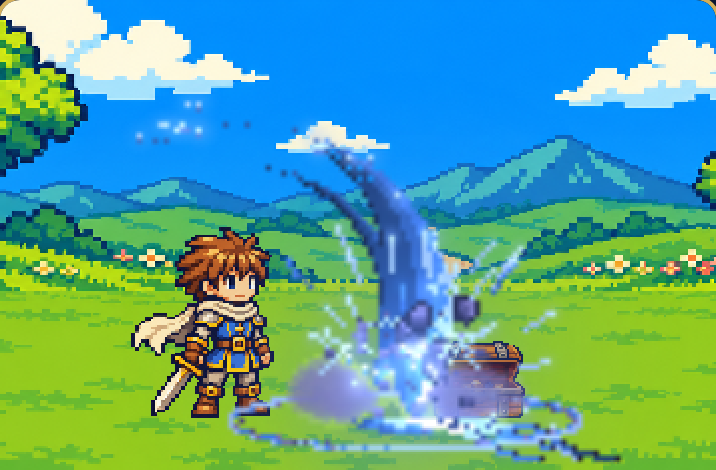
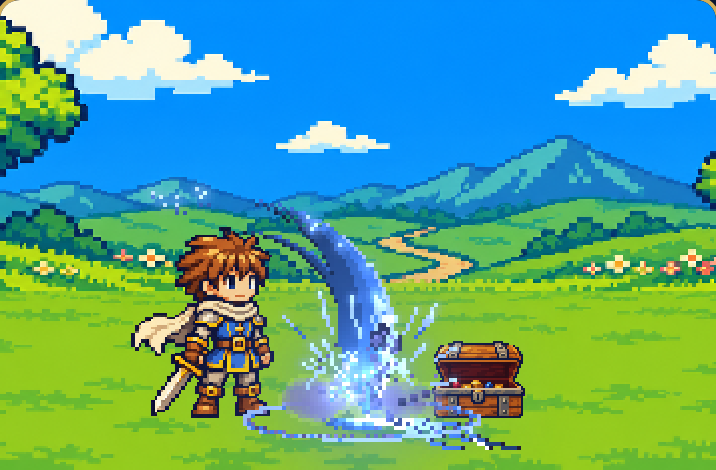
RPG: pixelfx の拡大を補間なし・整数倍に（ぼけ修正）

diff --git a/rpg/js/rpg-fx.js b/rpg/js/rpg-fx.js
@@ -80,16 +80,32 @@
         },
         done() { return fx.done(); },
         started() { return this.delay <= 0; },
-        // ctx の座標で、アンカー(ax,ay)に s 倍で描く
-        blit(ctx, ax, ay, s, alpha) {
+        // ctx の座標で、アンカー(ax,ay)に描く。cpx＝出力の1ドットが canvas の何ピクセルか（整数）、ds＝元ドットを ds×ds 個まとめて1ドットにする（整数）。
+        // 補間は使わない（くっきり）。位置も canvas ピクセルの整数に丸める
+        blit(ctx, ax, ay, cpx, alpha, ds) {
           if (this.delay > 0) return;
+          ds = ds || 1; const ow = Math.ceil(w / ds), oh = Math.ceil(h / ds);
           if (this.dirty) {
             const t0 = root.performance ? root.performance.now() : 0;
-            core.clearFrame(frame); fx.draw(frame); core.composite(frame, img.data, null, 1); g.putImageData(img, 0, 0); this.dirty = false;
+            core.clearFrame(frame); fx.draw(frame); core.composite(frame, img.data, null, 1);
+            if (ds === 1) g.putImageData(img, 0, 0);
+            else {
+              if (!this.small) { this.small = root.document.createElement('canvas'); this.small.width = ow; this.small.height = oh; this.sg = this.small.getContext('2d'); this.simg = this.sg.createImageData(ow, oh); }
+              const s = img.data, d = this.simg.data;
+              for (let y = 0; y < oh; y++) for (let x = 0; x < ow; x++) {
+                let best = -1, bi = 0;
+                for (let j = 0; j < ds; j++) for (let i = 0; i < ds; i++) { const xx = x * ds + i, yy = y * ds + j; if (xx >= w || yy >= h) continue; const q = (yy * w + xx) * 4, sc = s[q + 3] * 1024 + s[q] + s[q + 1] + s[q + 2]; if (sc > best) { best = sc; bi = q; } }
+                const o = (y * ow + x) * 4; d[o] = s[bi]; d[o + 1] = s[bi + 1]; d[o + 2] = s[bi + 2]; d[o + 3] = s[bi + 3];
+              }
+              this.sg.putImageData(this.simg, 0, 0);
+            }
+            this.dirty = false;
             if (root.performance) { this.ms += root.performance.now() - t0; this.frames++; }
           }
-          ctx.save(); ctx.globalAlpha = alpha == null ? 1 : alpha; ctx.imageSmoothingEnabled = true;
-          ctx.drawImage(cv, ax - this.ox * s, ay - this.oy * s, w * s, h * s); ctx.restore();
+          const k = ctx.getTransform().a || 1, src = ds === 1 ? cv : this.small;
+          const px = Math.round(ax * k - (this.ox / ds) * cpx), py = Math.round(ay * k - (this.oy / ds) * cpx);
+          ctx.save(); ctx.globalAlpha = alpha == null ? 1 : alpha; ctx.imageSmoothingEnabled = false;
+          ctx.drawImage(src, px / k, py / k, ow * cpx / k, oh * cpx / k); ctx.restore();
         }
       };
       return inst;

diff --git a/rpg/js/rpg-ui.js b/rpg/js/rpg-ui.js
@@ -85,8 +85,8 @@
     const b = a.battle, ed = D.ENEMIES[a.enemyId];
     return { job: b.hero.job, region: a.route.bg || D.REGIONS[a.route.region].id, outfit: M.costumeColor(RPG.save), enemyId: ed.id, boss: ed.boss, status: b.status, guard: !!(b.hero.guard && b.hero.guard.left > 0) };
   }
-  const REWARD_FXS = 0.9;   // 報酬画面：報酬の canvas は 1ドット＝CSS 3px。エフェクト1ドットを 2.7 CSS px に
-  const STRIP_FXS = 0.36;   // 帯：エフェクト1ドット＝帯の0.3ドット（小さく控えめ）。報酬画面は REWARD_FXS
+  const REWARD_FXS = 2;   // 報酬画面：エフェクト1ドット＝canvas 2px（主人公画像のドットと同程度）。整数倍・補間なし
+  const STRIP_FXS = 1, STRIP_DS = 2;   // 帯：2×2ドットを1つにまとめ、1ドット＝canvas 1px（帯の主人公のドットと同じ）。整数倍・補間なし   // 帯：エフェクト1ドット＝帯の0.3ドット（小さく控えめ）。報酬画面は REWARD_FXS
   const fxLive = [];
   // 画像が枠（CSS px）に収まらないとき、縮小率を返す（収まるなら1）。192pxボスの帯・報酬画面用
   function fitScale(im, maxW, maxH) { if (!im) return 1; return Math.min(1, maxW ? maxW / im.width : 1, maxH ? maxH / im.height : 1); }
@@ -99,7 +99,7 @@
     SP.drawHero(ctx, si.job, hx, gy, { img: 'strip', tint: heroTint, guard: o.guard || si.guard, outfit: si.outfit });
     if (si.status !== 'won') SP.drawEnemy(ctx, si.enemyId, si.boss, ex, gy, { img: 'strip', tint: o.enemyFlash ? '#fff' : null, scale: fitScale(SP.IMGS['enemy_' + si.enemyId + '_strip'], 0, 40) });
     if (o.still) { const im = SP.IMGS['fx_' + o.still.kind + '_strip']; if (im) { ctx.save(); ctx.globalAlpha = 0.9; ctx.imageSmoothingEnabled = false; const k = ctx.getTransform().a || 1, w = im.width / k, h = im.height / k, cx = o.still.hero ? hx + 7 : ex + 7; ctx.drawImage(im, cx - w / 2, gy - h - 2, w, h); ctx.restore(); } }
-    fxLive.forEach(f => { if (f.started()) f.blit(ctx, f.at === 'hero' ? hx + 7 : f.at === 'melee' ? ex - 10 : ex + 7, f.at === 'enemy' ? gy - 6 : gy, STRIP_FXS, 1); });
+    fxLive.forEach(f => { if (f.started()) f.blit(ctx, f.at === 'hero' ? hx + 7 : f.at === 'melee' ? ex - 10 : ex + 7, f.at === 'enemy' ? gy - 6 : gy, STRIP_FXS, 1, STRIP_DS); });
     if (o.slash) { SP.px(ctx, hx + 16, gy - 12, '#fff', 2); SP.px(ctx, hx + 18, gy - 10, '#ffe27a', 2); SP.px(ctx, hx + 20, gy - 8, '#fff', 2); }
     if (o.heal) { SP.px(ctx, hx + 5, gy - 18, '#5be08a', 1); SP.px(ctx, hx + 4, gy - 17, '#5be08a', 3); SP.px(ctx, hx + 5, gy - 16, '#5be08a', 1); }
   }

diff --git a/rpg/tools/ui_test_fx.py b/rpg/tools/ui_test_fx.py
@@ -30,7 +30,7 @@ with sync_playwright() as p:
         chk(engine + ':all_mods', pg.evaluate("() => Object.keys(RPGFX.FX).every(k => RPGFX.ready(k))"), pg.evaluate("() => Object.keys(RPGFX._S.failed)"))
         # 全エフェクトを描いて1フレームの描画時間を測る（オフスクリーン。帯サイズ）
         perf = pg.evaluate("""() => { const out = {}; const cv = document.createElement('canvas'); cv.width = 400; cv.height = 90; const g = cv.getContext('2d');
-          for (const k of Object.keys(RPGFX.FX)) { const f = RPGFX.spawn(k, { cap: 0.9 }); let n = 0, tot = 0, mx = 0; for (let i = 0; i < 40 && !f.done(); i++) { const t0 = performance.now(); f.update(1/60); f.update(1/60); g.clearRect(0,0,400,90); f.blit(g, 100, 80, 0.6, 1); const d = performance.now() - t0; tot += d; mx = Math.max(mx, d); n++; }
+          for (const k of Object.keys(RPGFX.FX)) { const f = RPGFX.spawn(k, { cap: 0.9 }); let n = 0, tot = 0, mx = 0; for (let i = 0; i < 40 && !f.done(); i++) { const t0 = performance.now(); f.update(1/60); f.update(1/60); g.clearRect(0,0,400,90); f.blit(g, 100, 80, 1, 1, 2); const d = performance.now() - t0; tot += d; mx = Math.max(mx, d); n++; }
             out[k] = { avg: +(tot / n).toFixed(2), max: +mx.toFixed(2), n }; } return out; }""")
         R['perf'][engine] = perf
         chk(engine + ':frame_avg_lt_10ms', max(v['avg'] for v in perf.values()) < 10, max(v['avg'] for v in perf.values()))

diff --git a/rpg/IMPLEMENTATION_DECISIONS.md b/rpg/IMPLEMENTATION_DECISIONS.md
@@ -45,8 +45,8 @@
 
 # 技の効果＝pixelfx（2026-11-18）
 - D-39 技の動くエフェクトは外部 pixelfx（https://github.com/patch-gg/pixelfx 、MIT、コミット 5294518）を `rpg/vendor/pixelfx/` に取り込み（core＋使う effect 20種。npm 不使用、gallery/fonts は持ち込まない）。描画は `rpg/js/rpg-fx.js`（classic script から動的 import。ビルドなし）。通常攻撃は従来のまま（技だけ差し替え）。戻り順：pixelfx →（読めない・失敗）静止画 fx_*（ChatGPT制作12種）→ コード描画。
-  - 帯（高さ44px）：エフェクト1ドット＝0.36論理ドット、最大0.9秒で止めて消す。hit stop・画面ゆれは切る。問題文・地図・選択肢の寸法は不変（学習画面の寸法差0）。
-  - 報酬画面（勝利時のみ）：職の大技エフェクトを宝箱の上で1回。大きめ（2.7 CSS px/ドット）、hit stop 0.09秒と画面ゆれ0.24秒を使う。「動きを減らす」設定では出さない。
+  - 帯（高さ44px）：元の2×2ドットを1つにまとめ（最も濃い画素を採用）、1ドット＝canvas 1px（帯の主人公画像のドットと同じ）、最大0.9秒で止めて消す。hit stop・画面ゆれは切る。問題文・地図・選択肢の寸法は不変（学習画面の寸法差0）。
+  - 報酬画面（勝利時のみ）：職の大技エフェクトを宝箱の上で1回。1ドット＝canvas 2px（報酬の主人公画像のドットの細かさに合わせた整数倍。1px だと小さすぎるので2px）、hit stop 0.09秒と画面ゆれ0.24秒を使う。「動きを減らす」設定では出さない。
   - 色：斬撃・突き・盾・crit は職の色（palette を6段に展開）。炎・氷・雷・水・光・回復は属性の色のまま。
   - effect 20種：slash=sword-slash, double=double-slash, flurry=dagger-flurry, cleave=heavy-cleave, thrust=thrust, fire=fireball, ice=ice-lance, nova=frost-nova, zap=zap-hit, clap=thunderclap, heal=heal, shield=divine-shield, block=shield-block, smite=smite, pillar=holy-pillar, crit=crit-hit, smoke=smoke-bomb, star=star-fall, burst=mana-burst, splash=splash。
   - 技→効果（技ID接尾=効果キー。ID接頭は職）：
@@ -63,3 +63,4 @@
   - 天翔騎士：wing=slash, guard=shield, meteor=star, blade=double, slash=flurry, dawn=pillar
   - 星詠み：arrow=thrust, ward=shield, comet=star, drop=heal, night=star, create=burst
   - 報酬画面の大技：戦士=cleave、魔法使い=star、僧侶・聖騎士・賢者・レンジャー・天翔騎士=pillar、盗賊=flurry、魔法戦士=nova、影武者=crit、忍者=clap、星詠み=burst。
+  - 拡大は補間なし（imageSmoothingEnabled=false）・整数倍・位置も整数 px に丸める（2026-11-18 修正：最初は補間ありの小数倍でぼけていた）。ドットの大きさを主人公と完全には一致させていない：pixelfx のドットは24×38pxの標準キャラ基準で、本作の主人公画像（高解像度を縮小）とは元の解像度が違うため、見た目の細かさが近い整数倍を採った。
